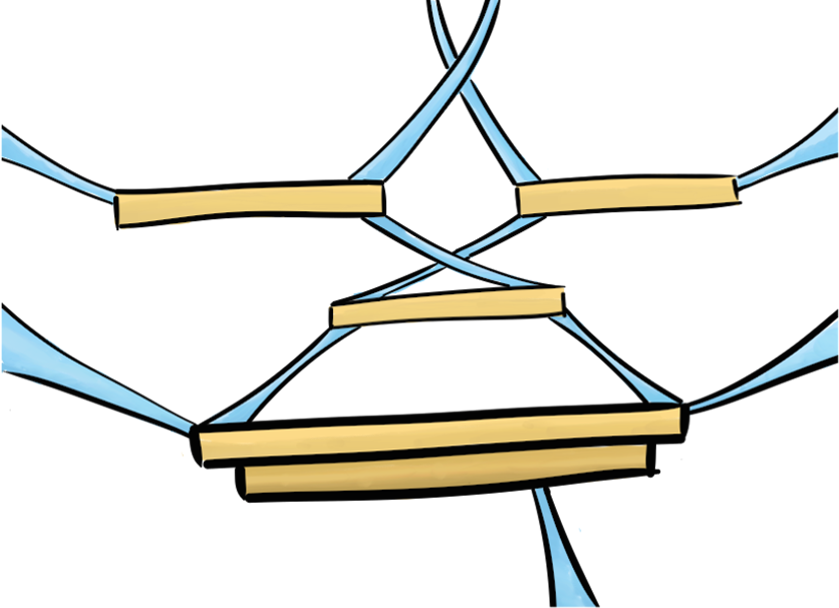
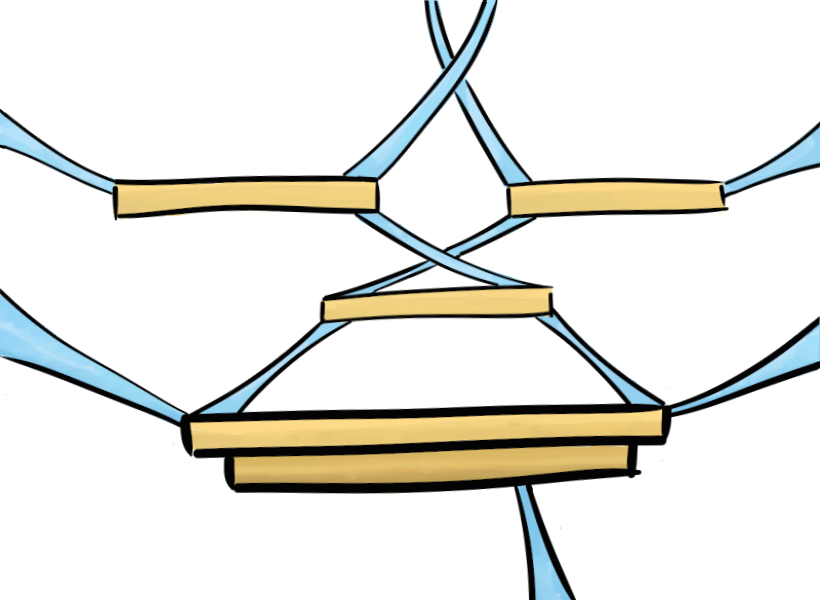
somewhat finished, but lacking sound

Changed region(s): [[0.0, 0.0, 1.0, 1.0]]

diff --git a/game.py b/game.py
@@ -1,7 +1,9 @@
 import os
 import sys
+import random
+import time
 
-import pygame, random, time
+import pygame
 
 from idea import *
 from level import *
@@ -12,41 +14,37 @@ class Game:
         self.width = w
         self.height = h
         self.display = pygame.display.set_mode((w,h))
-        #self.clock = pygame.time.Clock()
-        self.clock = time.clock()
-        self.fps = 30
-        # create ideas
-        #self.player = None
+        self.clock = pygame.time.Clock()
+        self.fps = 60
         # create level
         self.level = Level('bg0.png')
-        self.level.add_platform(Wall(200, 425, 490, 10))
-        self.level.add_platform(Wall(330, 305, 240, 10))
-        self.level.add_platform(Wall(115, 194, 270, 10))
-        self.level.add_platform(Wall(515, 185, 225, 10))
+        self.level.add_platform(Wall(200, 415, 460, 60))
+        self.level.add_platform(Wall(320, 295, 230, 10))
+        self.level.add_platform(Wall(105, 182, 260, 10))
+        self.level.add_platform(Wall(505, 185, 215, 10))
         self.level.add_animation('bg1.png', 0, 'vertical', 3.0)
-        self.level.add_animation('bg2.png', 1, 'horizontal', 1.0)
+        self.level.add_animation('bg2.png', 1, 'horizontal', 5.0)
 
     def create_players(self):
-        self.player = Idea('idea.png', 300, 300, 32, 32)
-        self.player2 = Idea('idea.png', 350, 300, 32, 32)
-        self.dummy = Idea('idea.png', 250, 300, 32, 32)
+        self.player = Idea('idea_yellow.png', 300, 300, 64, 64)
+        self.player2 = Idea('idea_green.png', 450, 300, 64, 64)
+        #self.dummy = Idea('idea.png', 250, 300, 32, 64)
         self.ideas = []
         self.dead_idea = []
         self.ideas.append(self.player)
         self.ideas.append(self.player2)
-        self.ideas.append(self.dummy)
+        #self.ideas.append(self.dummy)
         self.num_ideas = len(self.ideas)
 
     def run(self):
-        self.create_players()
+        self.menu()
         while True:
-            #dt = self.clock.tick(self.fps) / 1000.0
-            dt = self.clock / 15
+            dt = self.clock.tick(self.fps) / 1000.0
             # check events
             self.events(dt)
             # draw and update
             self.level.draw(self.display)
-            #self.level.animate(dt)
+            self.level.animate(dt)
             self.collisions()
             for idea in self.ideas:
                 idea.update(dt, self.level)
@@ -58,6 +56,20 @@ class Game:
             if len(self.dead_idea) >= self.num_ideas - 1:
                 self.create_players()
             # update the damn screen
+            pygame.display.update()
+
+    def menu(self):
+        menu_image = pygame.image.load(os.path.join('assets', 'bg0.png')).convert_alpha()
+        while True:
+            self.display.blit(menu_image, (0,0))
+            for event in pygame.event.get():
+                if event.type == pygame.KEYDOWN:
+                    if event.key == pygame.K_ESCAPE:
+                        sys.exit()
+                        pygame.quit()
+                    if event.key == pygame.K_SPACE:
+                        self.create_players()
+                        return
             pygame.display.update()
 
 

diff --git a/idea.py b/idea.py
@@ -16,16 +16,16 @@ class Idea:
         self.split_images('idea', os.path.join('assets', filename), w, h)
         self.image = 'idle' # current image
         self.frame = 0
-        self.image_speeds = {'idle': 1.0, 'run': 0.3, 'jump': 1.0}
+        self.image_speeds = {'idle': 1.0, 'run': 0.1, 'jump': 1.0}
         self.anim_time = 0.0 # keeps track of time spent on current frame
         # set up fist image and animation properties
         self.fist_images = []
-        self.fist_rect = pygame.Rect(x, y, 16, 16)
-        self.fist_frames = 4 # number of frames in animation
+        self.fist_rect = pygame.Rect(x, y, 64, 64)
+        self.fist_frames = 3 # number of frames in animation
         self.fist_frame = 0 # current punching frame
         self.fist_speed = 0.1
         self.fist_anim_time = 0.0
-        self.split_images('fist', os.path.join('assets', 'fist.png'), 16, 16)
+        self.split_images('fist', os.path.join('assets', 'fist.png'), 64, 64)
         # other properties
         self.mass = 10.0
         self.xv = 0.0
@@ -51,11 +51,11 @@ class Idea:
 
             # punching stuff
             if self.punching:
-                self.fist_rect.x = self.facing * 30 + self.rect.center[0] - max(self.facing, 0) * 16
+                self.fist_rect.x = self.facing * 60 + self.rect.center[0] - max(self.facing, 0) * 64
                 self.fist_rect.y = self.rect.y + 5
 
     def draw(self, display):
-        pygame.draw.rect(display, (0, 255, 255), self.rect, 1)
+        #pygame.draw.rect(display, (0, 255, 255), self.rect, 1)
         display.blit(pygame.transform.flip(\
                     self.images[self.image][self.frame],\
                     self.facing==-1, False),\
@@ -159,9 +159,8 @@ class Idea:
                 self.images[anim] = imgs
                 self.image_frames[anim] = len(imgs)-1
         elif obj == 'fist':
-            # set up idle animation
             for i in range(self.fist_frames):
                 frame = img.subsurface(\
-                            (i*16, 0),\
-                            (16, 16))
+                            (i*64, 0),\
+                            (64, 64))
                 self.fist_images.append(frame)

diff --git a/level.py b/level.py
@@ -12,7 +12,7 @@ class Wall:
 class Level:
     def __init__(self, filename):
         self.platforms = []
-        self.image = pygame.image.load(os.path.join('assets', filename)).convert_alpha()
+        self.image = pygame.image.load(os.path.join('assets', filename))
         self.anims = {}
 
     def add_platform(self, platform):
@@ -36,9 +36,10 @@ class Level:
 
     def animate(self, dt):
         for a in self.anims:
-            if self.anims[a]['pos'] <= self.anims[a]['end'] or self.anims[a]['pos'] > 0:
-                self.anims[a]['dir'] *= -1
-            self.anims[a]['pos'] += self.anims[a]['speed'] * dt * self.anims[a]['dir']
+            if self.anims[a]['mode'] == 'vertical':
+                if self.anims[a]['pos'] <= self.anims[a]['end'] or self.anims[a]['pos'] > 0:
+                    self.anims[a]['dir'] *= -1
+                self.anims[a]['pos'] += self.anims[a]['speed'] * dt * self.anims[a]['dir']
 
     def draw(self, display):
         # draw background images
@@ -50,5 +51,5 @@ class Level:
                 display.blit(self.anims[i]['image'], (self.anims[i]['pos'], 0))
 
         # draw platforms
-        for plat in self.platforms:
-            plat.draw(display)
+        #for plat in self.platforms:
+        #    plat.draw(display)
